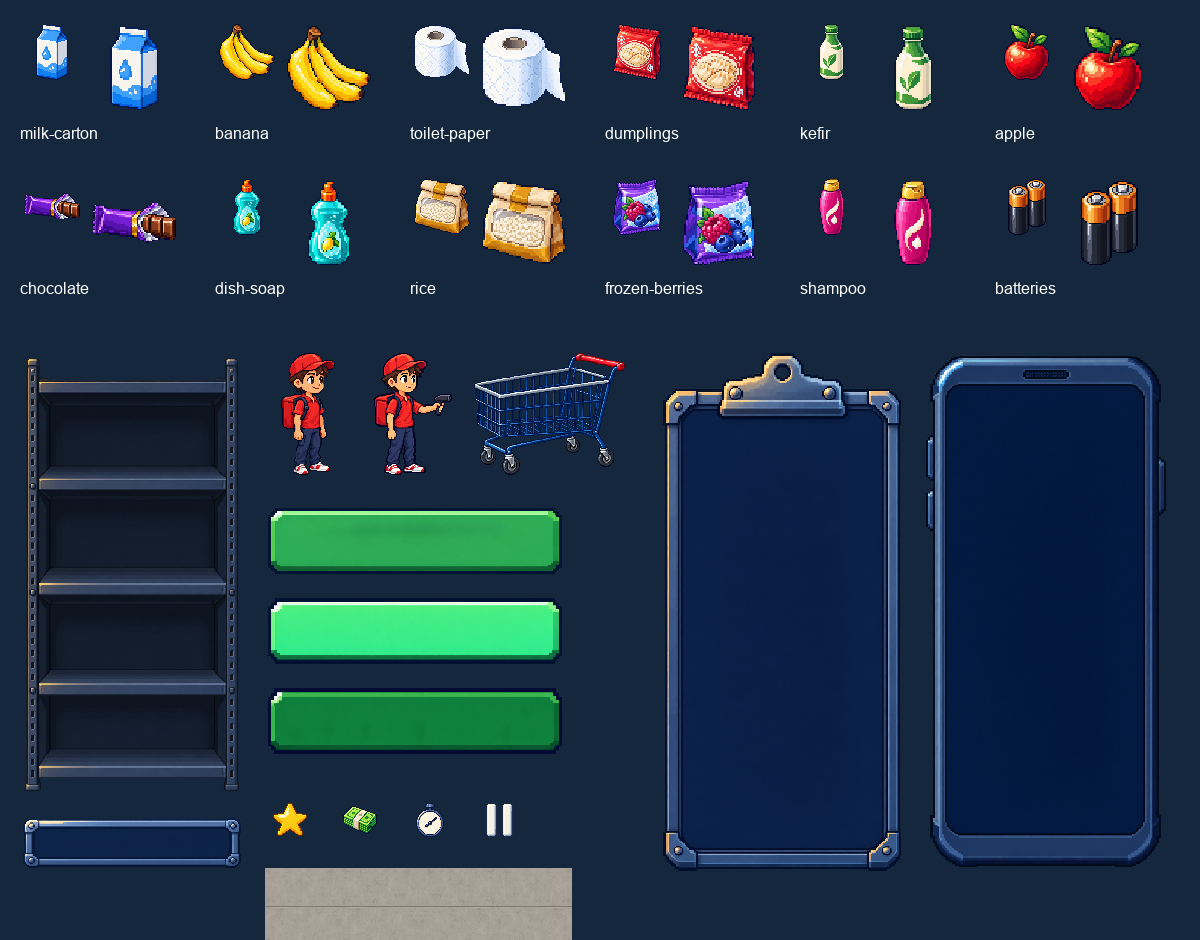
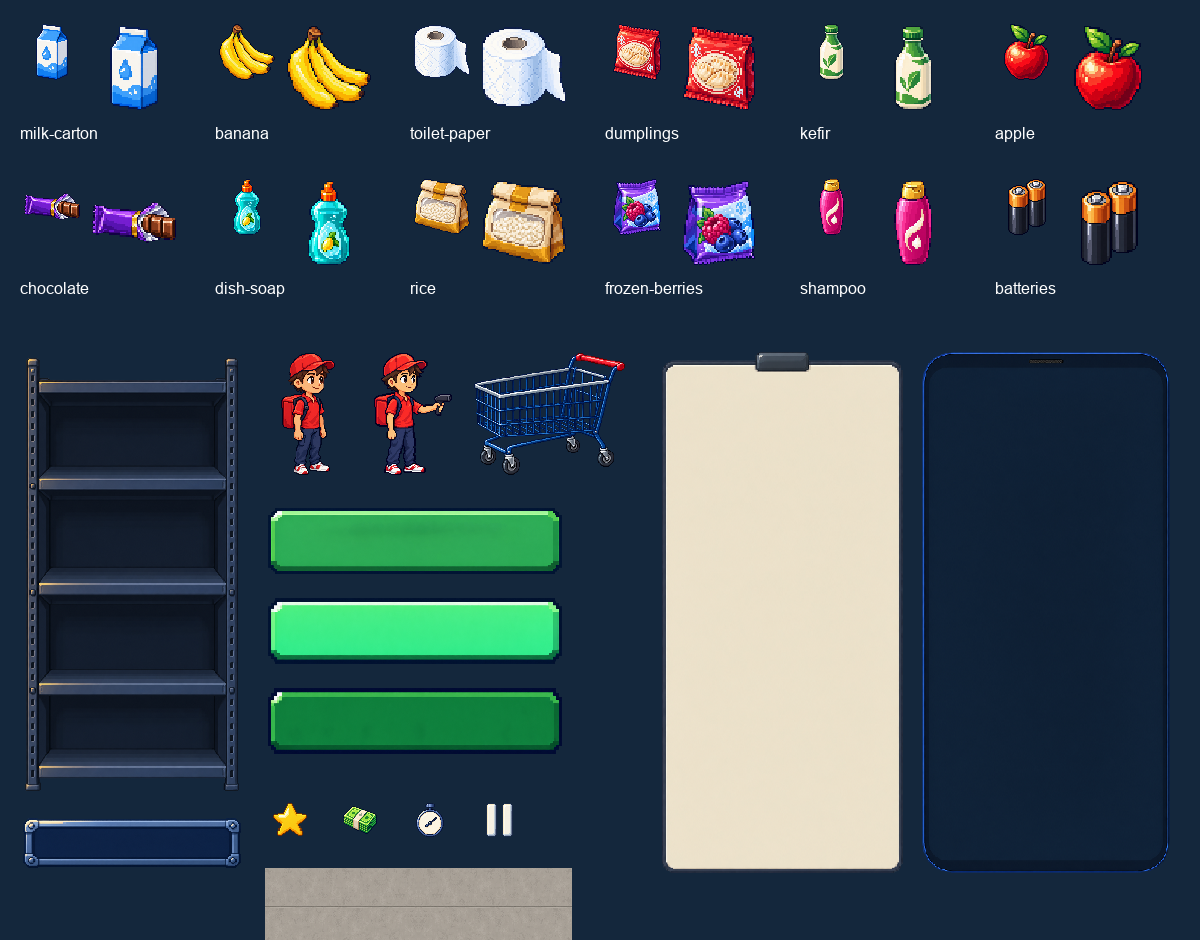
art: revise order panel and phone, add Batch 01.1 backdrop

Changed region(s): [[0.555, 0.3702, 0.9867, 0.9564]]

diff --git a/tools/art/build-preview.py b/tools/art/build-preview.py
@@ -20,7 +20,7 @@ def asset(path,x,y,size=None):
 
 # Wireframe coordinates are authoritative. These backplates and all text are
 # preview-only stand-ins for live Phaser UI; they are not production artwork.
-for x in range(0,1600,512): asset('environment/floor-strip.png',x,772)
+asset('environment/warehouse-backdrop.png',0,0)
 for r in [(24,18,374,104),(568,18,854,104),(1030,18,1246,104),(1264,18,1460,104),(1478,18,1576,104)]: box(r)
 text(46,29,'СТАЖЁР',23,bold=True)
 box((46,66,340,80),'#0e1c30','#0e1c30',5)
@@ -32,16 +32,16 @@ asset('ui/icon-star.png',1282,40);text(1336,39,'4.7',28,bold=True)
 asset('ui/icon-pause.png',1506,40)
 
 asset('ui/order-panel.png',24,126)
-text(54,230,'ЗАКАЗ #1482',25,bold=True)
+text(54,230,'ЗАКАЗ #1482',25,'#203149',bold=True)
 names=['milk-carton','banana','toilet-paper','dumplings','kefir','apple','chocolate','dish-soap','rice','frozen-berries','shampoo','batteries']
 labels=['Молоко','Бананы','Туалетная бумага','Пельмени','Кефир','Яблоко','Шоколад','Средство для посуды','Рис','Замороженные ягоды','Шампунь','Батарейки']
 for j,(name,label,count) in enumerate(zip(names[:4],labels[:4],['1 / 1','0 / 2','0 / 1','0 / 1'])):
     y=292+j*102
-    box((46,y,350,y+90),'#182d48','#32455c',6)
+    box((46,y,350,y+90),'#f6f0e6','#d8cebf',6)
     asset('products/'+name+'.png',51,y+10)
-    text(122,y+15,label,17,bold=True)
-    text(122,y+47,count,21,'#61d786' if j==0 else '#adc1d6')
-text(54,730,'Собрано: 1 из 5',18,'#a9c4dc')
+    text(122,y+15,label,17,'#203149',bold=True)
+    text(122,y+47,count,21,'#26814a' if j==0 else '#6c6870')
+text(54,730,'Собрано: 1 из 5',18,'#665f5b')
 asset('ui/button-primary.png',49,780)
 text(77,804,'ОТПРАВИТЬ ЗАКАЗ',23,bold=True)
 
@@ -71,11 +71,11 @@ asset('character/cart.png',925,718)
 
 asset('ui/phone-frame.png',1216,126)
 text(1253,210,'ПОСЛЕДНИЙ ЗАКАЗ',21,bold=True)
-box((1246,253,1544,468),'#f2ece2','#d8cbb9',9)
-text(1268,275,'+248 ₽',40,'#219848',True)
+box((1246,253,1544,468),'#1c3045','#34485d',9)
+text(1268,275,'+248 ₽',40,'#5dcc7a',True)
 for i in range(5): asset('ui/icon-star.png',1268+i*48,334)
-text(1267,393,'Всё на месте!',21,'#162b40',True)
-text(1267,425,'Спасибо за свежие бананы.',17,'#162b40')
+text(1267,393,'Всё на месте!',21,'#eaf2ff',True)
+text(1267,425,'Спасибо за свежие бананы.',17,'#c2d0df')
 text(1253,509,'ВАШ РЕЙТИНГ',17,'#a9c4dc')
 asset('ui/icon-star.png',1252,540);text(1304,540,'4.7',32,bold=True)
 text(1253,615,'ДО СЛЕДУЮЩЕГО РАНГА',16,'#a9c4dc')

diff --git a/tools/art/verify.py b/tools/art/verify.py
@@ -1,4 +1,4 @@
-"""Verify Batch 01 delivery dimensions, transparent margins and repeat seam."""
+"""Verify Batch 01 with the narrowly scoped Batch 01.1 revision."""
 from pathlib import Path
 import json
 from PIL import Image, ImageChops
@@ -15,13 +15,15 @@ for entry in manifest:
     if 'products/' in entry['path']:
         assert bounds and min(bounds[:2])>=3 and max(bounds[2:])<=61,(p,bounds)
         assert 52<=max(bounds[2]-bounds[0],bounds[3]-bounds[1])<=58,(p,bounds)
-    if 'floor-strip' not in entry['path']:
+    if 'warehouse-backdrop' in entry['path']:
+        assert alpha.getextrema()==(255,255),(p,alpha.getextrema())
+    elif 'floor-strip' not in entry['path']:
         assert alpha.getextrema()[0]==0,p
     else:
         assert alpha.getextrema()==(255,255),(p,alpha.getextrema())
         assert ImageChops.difference(im.crop((0,0,1,128)),im.crop((511,0,512,128))).getbbox() is None,'floor seam'
     checks.append({'path':entry['path'],'size':list(im.size),'alpha':alpha.getextrema(),'bounds':bounds,'bytes':p.stat().st_size})
-assert len(checks)==27,len(checks)
+assert len(checks)==28,len(checks)
 assert Image.open(ROOT/'preview-batch-01.png').size==(1600,900)
 (ROOT/'assets/batch-01-qa.json').write_text(json.dumps({'result':'PASS','assets':checks},indent=2),encoding='utf-8')
-print('PASS: 27 PNGs, dimensions, RGBA, product margins, floor seam, 1600x900 preview')
+print('PASS: 28 PNGs, dimensions, RGBA, product margins, opaque backdrop, floor seam, 1600x900 preview')

diff --git a/docs/ASSETS_REPORT.md b/docs/ASSETS_REPORT.md
@@ -1,16 +1,17 @@
-# Batch 01 — графика для проверки стиля
+# Batch 01 / 01.1 — графика для проверки стиля
 
 ## Состав поставки
 
-Только Batch 01 из `ASSET_MANIFEST.md`: 3 элемента окружения, 3 спрайта персонажа/тележки, 9 элементов UI и 12 товаров. Production-файлы находятся в `assets/environment`, `assets/character`, `assets/ui`, `assets/products`.
+Batch 01 с доработкой строго по `DESIGN_REVIEW_BATCH_01.md`: 4 элемента окружения, 3 спрайта персонажа/тележки, 9 элементов UI и 12 товаров. Batch 01.1 заменяет только `order-panel.png` и `phone-frame.png`, добавляет `warehouse-backdrop.png` 1600×900 и обновляет сборочный preview. Production-файлы находятся в `assets/environment`, `assets/character`, `assets/ui`, `assets/products`.
 
 `preview-batch-01.png` в корне проекта — сборочная композиция 1600×900 по `WIREFRAME.md`. `assets/contact-sheet-batch-01.png` — обзор отдельных элементов. Это материалы проверки, их не нужно нарезать для игры.
 
 ## Использование
 
-- Координаты левой панели: (24,126), размер 350×750. Внутренняя безопасная область: x=24..326, y=100..690 относительно ассета; верх занят зажимом.
-- Телефон: (1216,126), размер 360×750. Безопасная область контента: x=30..328, y=70..690 относительно ассета.
-- Панели содержат пустой navy-фон. Все надписи, числа, отзывы, строки заказа и прогресс должны выводиться игрой поверх PNG.
+- Координаты левой панели: (24,126), размер 350×750. Светлая cream-поверхность с тонкой navy-рамкой и маленьким зажимом. Безопасная область: x=16..334, y=36..730 относительно ассета.
+- Телефон: (1216,126), размер 360×750. Тонкий navy-корпус без бронированных боков. Безопасная область контента: x=18..342, y=34..722 относительно ассета.
+- Все надписи, числа, отзывы, строки заказа и прогресс должны выводиться игрой поверх PNG. В preview текст заказа тёмный на светлой бумаге; подложка отзыва приглушена, чтобы телефон меньше конкурировал с товарами. Координаты элементов сохранены.
+- `warehouse-backdrop.png` — отдельный непрозрачный фон 1600×900, размещается первым слоем. Дальние коробки и лампы служат атмосферой, кликабельных товаров и текста в фоне нет.
 - Кнопки — одинаковый canvas 300×72, текст размещается отдельно по центру. Три состояния поставляются отдельными файлами.
 - Товар — canvas 64×64, центрирование по видимому силуэту, максимальная сторона 52–58 px. Не увеличивать разные товары по отдельным произвольным коэффициентам.
 - Worker idle/pick — canvas 96×128. Тележка 160×128 поставляется пустой; товары в ней можно размещать отдельными иконками.
@@ -25,7 +26,7 @@
 
 `tools/art/verify.py` проверяет комплектность, размеры, формат RGBA, поля товаров, стык пола и размер preview. Результаты записываются в `assets/batch-01-qa.json`.
 
-Финальный технический контроль: **27/27 PASS**. После генерации выполнена нормализация размеров; для кнопок и таблички удалены внешние пустые поля и установлен общий отступ 3 px. Пол экспортирован как отражённый повтор исходной непрозрачной текстуры: крайние столбцы совпадают побитно. Такой технический экспорт не требует дорисовки при интеграции.
+В исходном Batch 01 технический контроль составлял 27/27. После Batch 01.1 проверяются 28 PNG, включая новый непрозрачный backdrop; актуальный результат — в `assets/batch-01-qa.json`. Новые рамки экспортированы с отступом 3 px. Принятые 25 production PNG, включая товары, кнопки, иконки, пол, стеллажи, персонажа и тележку, остаются без изменений. Ранее выполненный отражённый экспорт пола также сохранён.
 
 ## Граница приёмки
 

diff --git a/docs/DECISIONS.md b/docs/DECISIONS.md
@@ -69,3 +69,7 @@ Pixel-art / pixel-inspired production style для снижения стоимо
 По запросу руководителя выполняется только Batch 01 из `DESIGNER_TZ.md`: 27 отдельных production PNG и сборочный preview 1600×900. Референсы задают стиль; точная геометрия определяется `WIREFRAME.md`. Реальные бренды и декоративный текст из референсов не переносятся.
 
 Выбраны navy-панель заказа с металлическим зажимом, navy-корпус телефона, красная форма сборщика и нейтральные цветные упаковки. Динамический UI рисуется игрой. Код игры не меняется в рамках этой графической поставки. Batch 02 остаётся закрыт до отдельного подтверждения; статическая проверка не означает приёмку в живой игре.
+
+### D-013 — ограниченная доработка Batch 01.1
+
+По `DESIGN_REVIEW_BATCH_01.md` панель заказа заменена на светлую cream-поверхность с тонкой navy-рамкой, корпус телефона облегчён, добавлен отдельный тёплый warehouse backdrop 1600×900. Preview обновляется при прежних координатах: контраст текста заказа адаптирован к светлой поверхности, подложка отзыва приглушена. Остальные 25 production PNG сохраняются без изменений; живую интеграцию выполняет разработчик следующим этапом. Batch 02 не начат.
